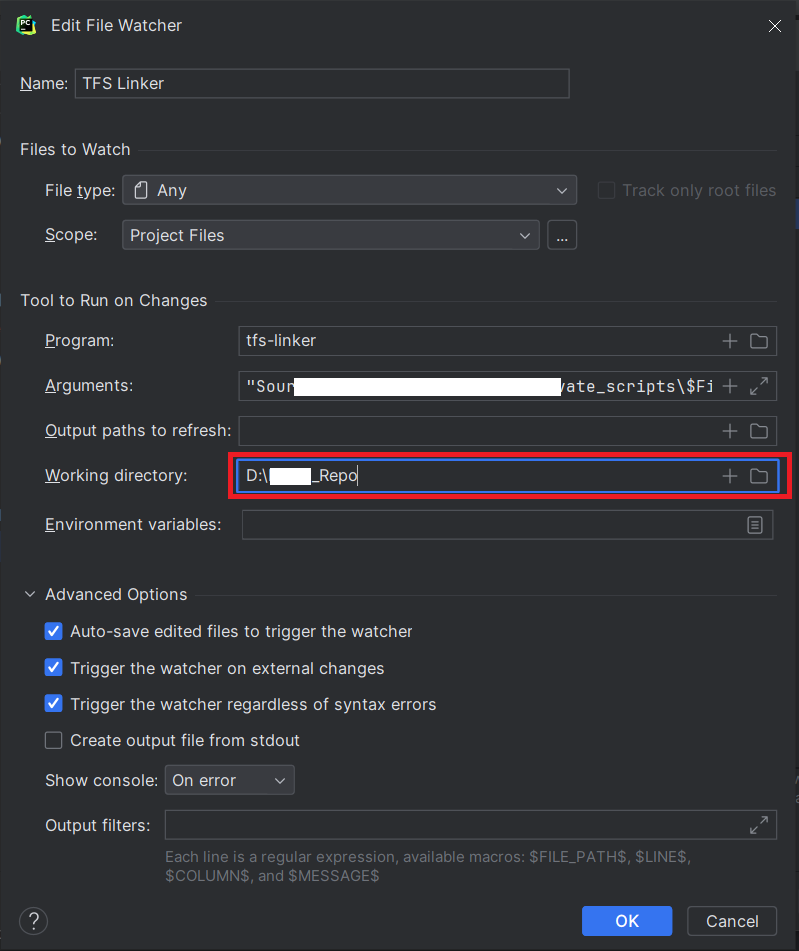
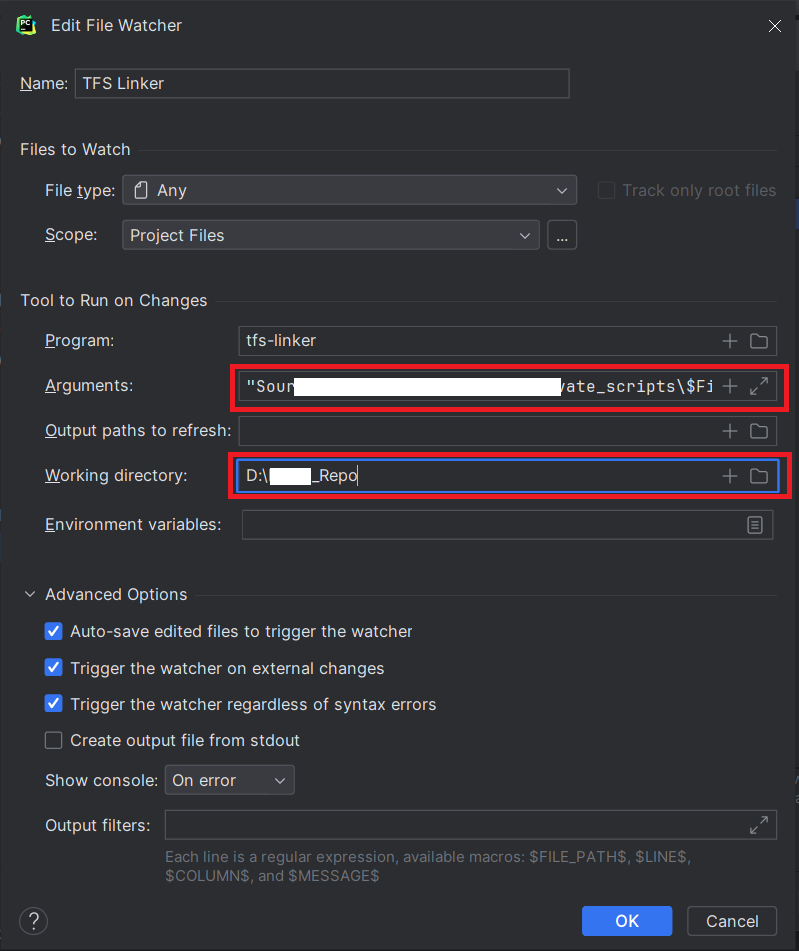
upaded auto config setup

Changed region(s): [[0.2703, 0.3659, 0.9912, 0.4574]]

diff --git a/tfs_linker/idea_config.py b/tfs_linker/idea_config.py
@@ -1,10 +1,17 @@
 import os
 from pathlib import Path
+import subprocess
+import re
+from .exceptions import TFSWorkSpaceNotFound, InvalidIntelliJIDEProjectPath
 
 PACKAGE_PATH = Path(os.path.abspath(__file__)).parent.resolve()
 
 
-def get_input(message, default, failed=False):
+def execute_tfs(command):
+    return subprocess.run(command, capture_output=True, text=True)
+
+
+def get_input(message, default=None, failed=False):
     message_string = "Try again: " if failed else message + ": "
     value = input(message_string) or default
     return value if value else get_input(message, default, failed=True)
@@ -18,9 +25,55 @@ def auto_detect_workspace(cwd):
     return None
 
 
+def validate_tfs_executable(exe_path):
+    validate_output = execute_tfs([exe_path])
+    if "Microsoft (R) TF - Team Foundation Version Control Tool" in validate_output.stdout:
+        return exe_path
+    else:
+        return validate_tfs_executable(get_input("TFS exe not found, please provide it: "))
+
+
+def find_common_path(server_path, local_path):
+    server_path_list = server_path.split("/")
+    local_path_list = local_path.split("\\")
+
+    index = 0
+
+    for i in range(len(local_path_list)):
+        index = -(i + 1)
+        if local_path_list[index] != server_path_list[index]:
+            break
+
+    if not index:
+        raise TFSWorkSpaceNotFound("Could not map the TFS path.")
+
+    return "\\".join(local_path_list[:index+1])
+
+
+def current_directory_for_tfs_validate_tfs_directory(tfs_exe):
+    info_command = execute_tfs([tfs_exe, "info", "."])
+
+    output = info_command.stdout
+    local_path_pattern = re.compile(r'Local path\s*:\s*(.*)', re.IGNORECASE)
+    server_path_pattern = re.compile(r'Server path\s*:\s*(.*)', re.IGNORECASE)
+    local_path_match = local_path_pattern.search(output)
+    server_path_match = server_path_pattern.search(output)
+
+    if not local_path_match or not server_path_match:
+        raise TFSWorkSpaceNotFound("TFS Workspace not found in the current working directory.")
+
+    local_path = local_path_match.group(1).strip()
+    server_path = server_path_match.group(1).strip()
+
+    return find_common_path(server_path=server_path, local_path=local_path)
+
+
 def configure_idea():
     current_working_directory = os.getcwd()
     idea_folder = os.path.join(current_working_directory, ".idea")
+    if not os.path.exists(idea_folder):
+        raise InvalidIntelliJIDEProjectPath("Not an valid IDEA IDE Project.")
+
     os.makedirs(idea_folder, exist_ok=True)
 
     watchers_path = os.path.join(idea_folder, "watcherTasks.xml")
@@ -41,29 +94,25 @@ def configure_idea():
     if start_setup:
         xml_config = open(os.path.join(PACKAGE_PATH, "watchersConfig.xml"), "r").read()
 
-        config_to_get = {
-            "workspaceDirectory": {
-                "description": "TFS Working directory absolute path.\n\teg. D:\\Projects\\Workspace",
-                "default": auto_detect_workspace(current_working_directory),
-            },
-            "tfsExecutablePath": {
-                "description": "Path to TFS executable binary",
-                "default": default_tfs_exe,
-            },
-        }
-
         configs_retrieved = {}
 
-        for config_name, info in config_to_get.items():
-            description_message = info.get("description")
-            default = info.get("default")
-            if default:
-                description_message += f"\n(default: {default})"
-            configs_retrieved[config_name] = get_input(description_message, default)
+        tfs_exe = validate_tfs_executable(default_tfs_exe)
+
+        print("Valid TFS executable found at: " + tfs_exe)
+
+        configs_retrieved["tfsExecutablePath"] = tfs_exe
+
+        workspace_directory = current_directory_for_tfs_validate_tfs_directory(tfs_exe)
+
+        configs_retrieved["workspaceDirectory"] = workspace_directory
+
+        print("Valid TFS directory found at: " + workspace_directory)
 
         relative_path = os.path.relpath(
-            os.getcwd(), configs_retrieved["workspaceDirectory"]
+            current_working_directory, configs_retrieved["workspaceDirectory"]
         )
+
+        print("Relative path from the TFS Directory: " + relative_path)
 
         configs_retrieved["workingDirectory"] = relative_path
 
@@ -74,3 +123,28 @@ def configure_idea():
             config_file.write(xml_config)
 
         print("Configuration added.")
+        print("Verify the added configuration at File->Settings->Tools->File Watchers, Look for TFS Linker.")
+        print("Added it manually in case if you can not find the TFS Linker: \n")
+
+        print("Name: TFS Linker")
+        print("Files to Watch:")
+
+        print("\t\tFile Type: Any")
+        print("\t\tScope: Project Files")
+
+        print("Tool to Run on Changes:")
+        print("\t\tProgram: tfs-linker")
+        print(f'\t\tArguments: "{relative_path}\$FilePathRelativeToProjectRoot$" "{tfs_exe}"')
+        print('\t\tOutput paths to refresh: (leave empty)')
+        print(f'\t\tWorking directory: {workspace_directory}')
+        print('\t\tEnvironment variables: (leave empty)')
+        print("Advanced Options:")
+
+        print("\t\tAuto-save edited files to trigger the watcher: enabled")
+        print("\t\tTrigger the watcher on external changes: enabled")
+        print("\t\tTrigger the watcher regardless of syntax errors: enabled")
+        print("\t\tCreate output file from stdout: disabled")
+        print("\t\tShow console: On error")
+        print("\t\tOutput filters: (leave empty)")
+        print("Click on Ok to save.")
+

diff --git a/tfs_linker/linker.py b/tfs_linker/linker.py
@@ -2,14 +2,12 @@ import json
 import subprocess
 import os
 import sys
+from .exceptions import TFSConnectionFailed
+
 
 TFS_LINKER_FOLDER = ".tfslinker"
 WORKING_DIR = os.getcwd()
 QUEUE_KEY = "queue"
-
-
-class TFSConnectionFailed(Exception):
-    pass
 
 
 def get_queue_path():

diff --git a/tfs_linker/exceptions.py b/tfs_linker/exceptions.py
@@ -1,0 +1,10 @@
+class TFSConnectionFailed(Exception):
+    pass
+
+
+class InvalidIntelliJIDEProjectPath(Exception):
+    pass
+
+
+class TFSWorkSpaceNotFound(Exception):
+    pass

diff --git a/README.md b/README.md
@@ -24,7 +24,6 @@ Follow these steps to configure File Watcher:
    - **Output Paths & Environment Variables:** Leave empty.
    
     <img src="docs/workingDirectory.png" alt="File Watcher Configuration" width="400"/>
-    <img src="docs/argumentsConfig.png" alt="File Watcher Configuration" width="400"/>
 
 4. Apply the changes and close the settings.
 
